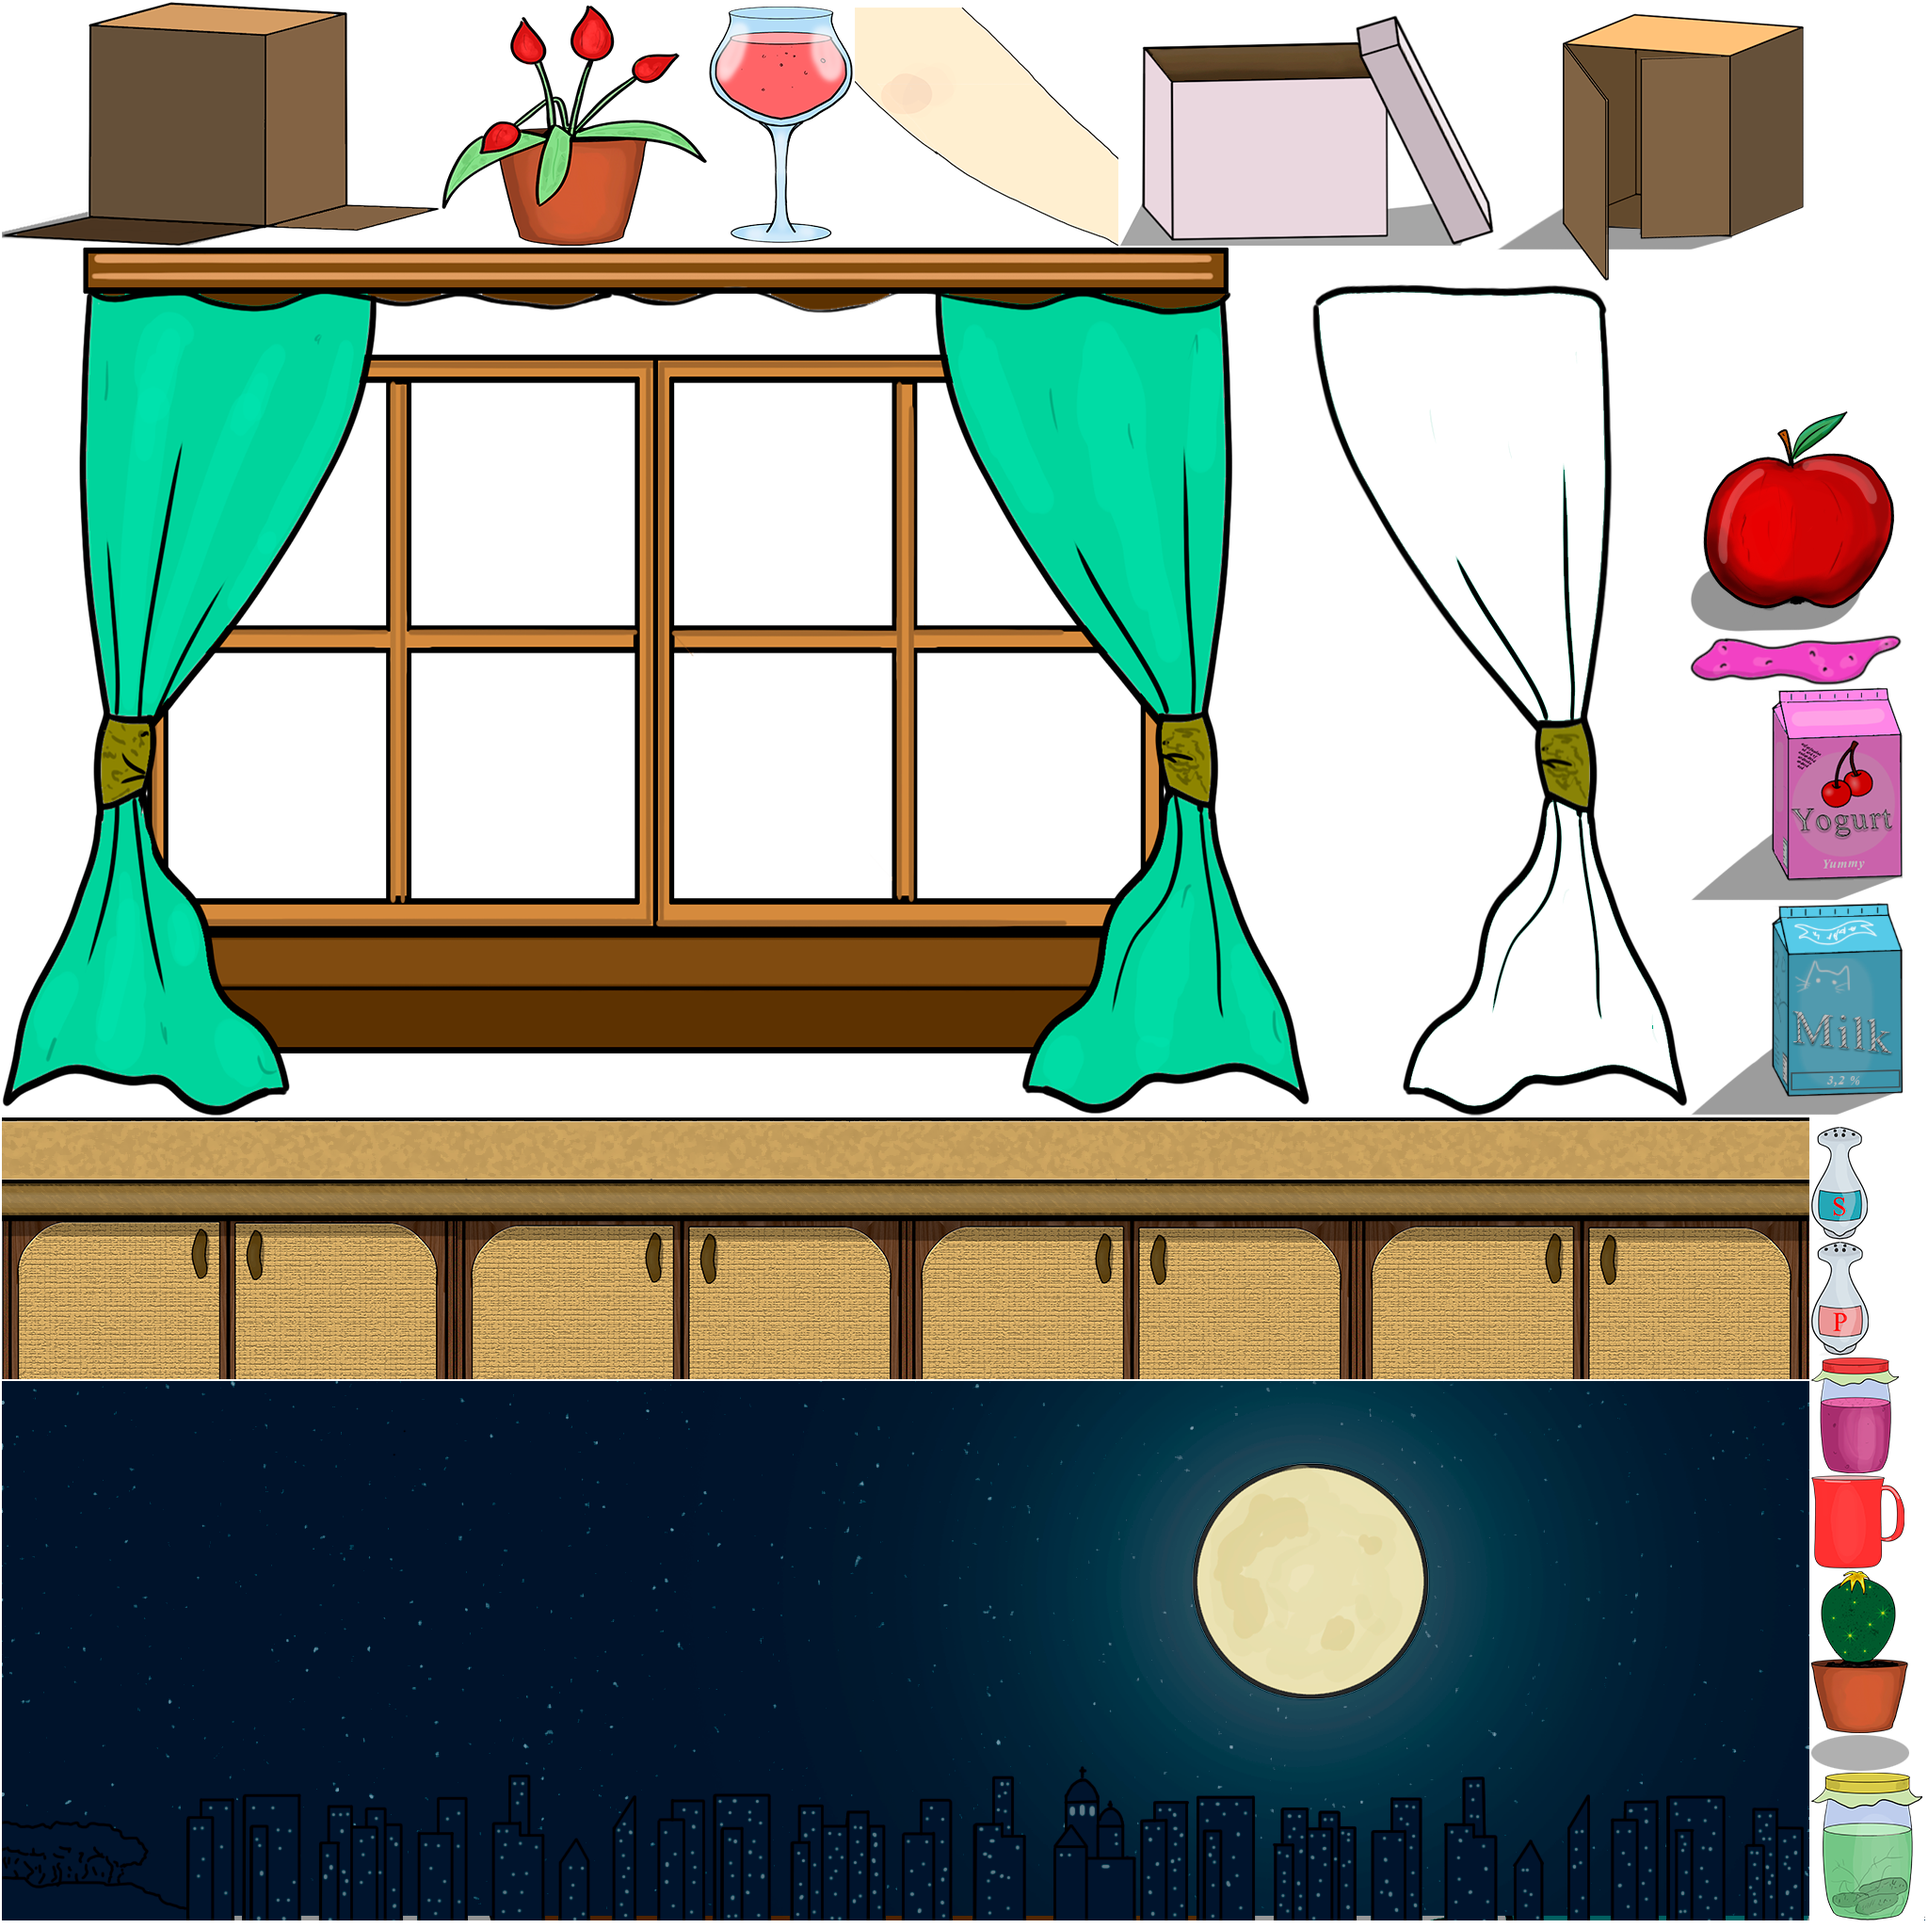
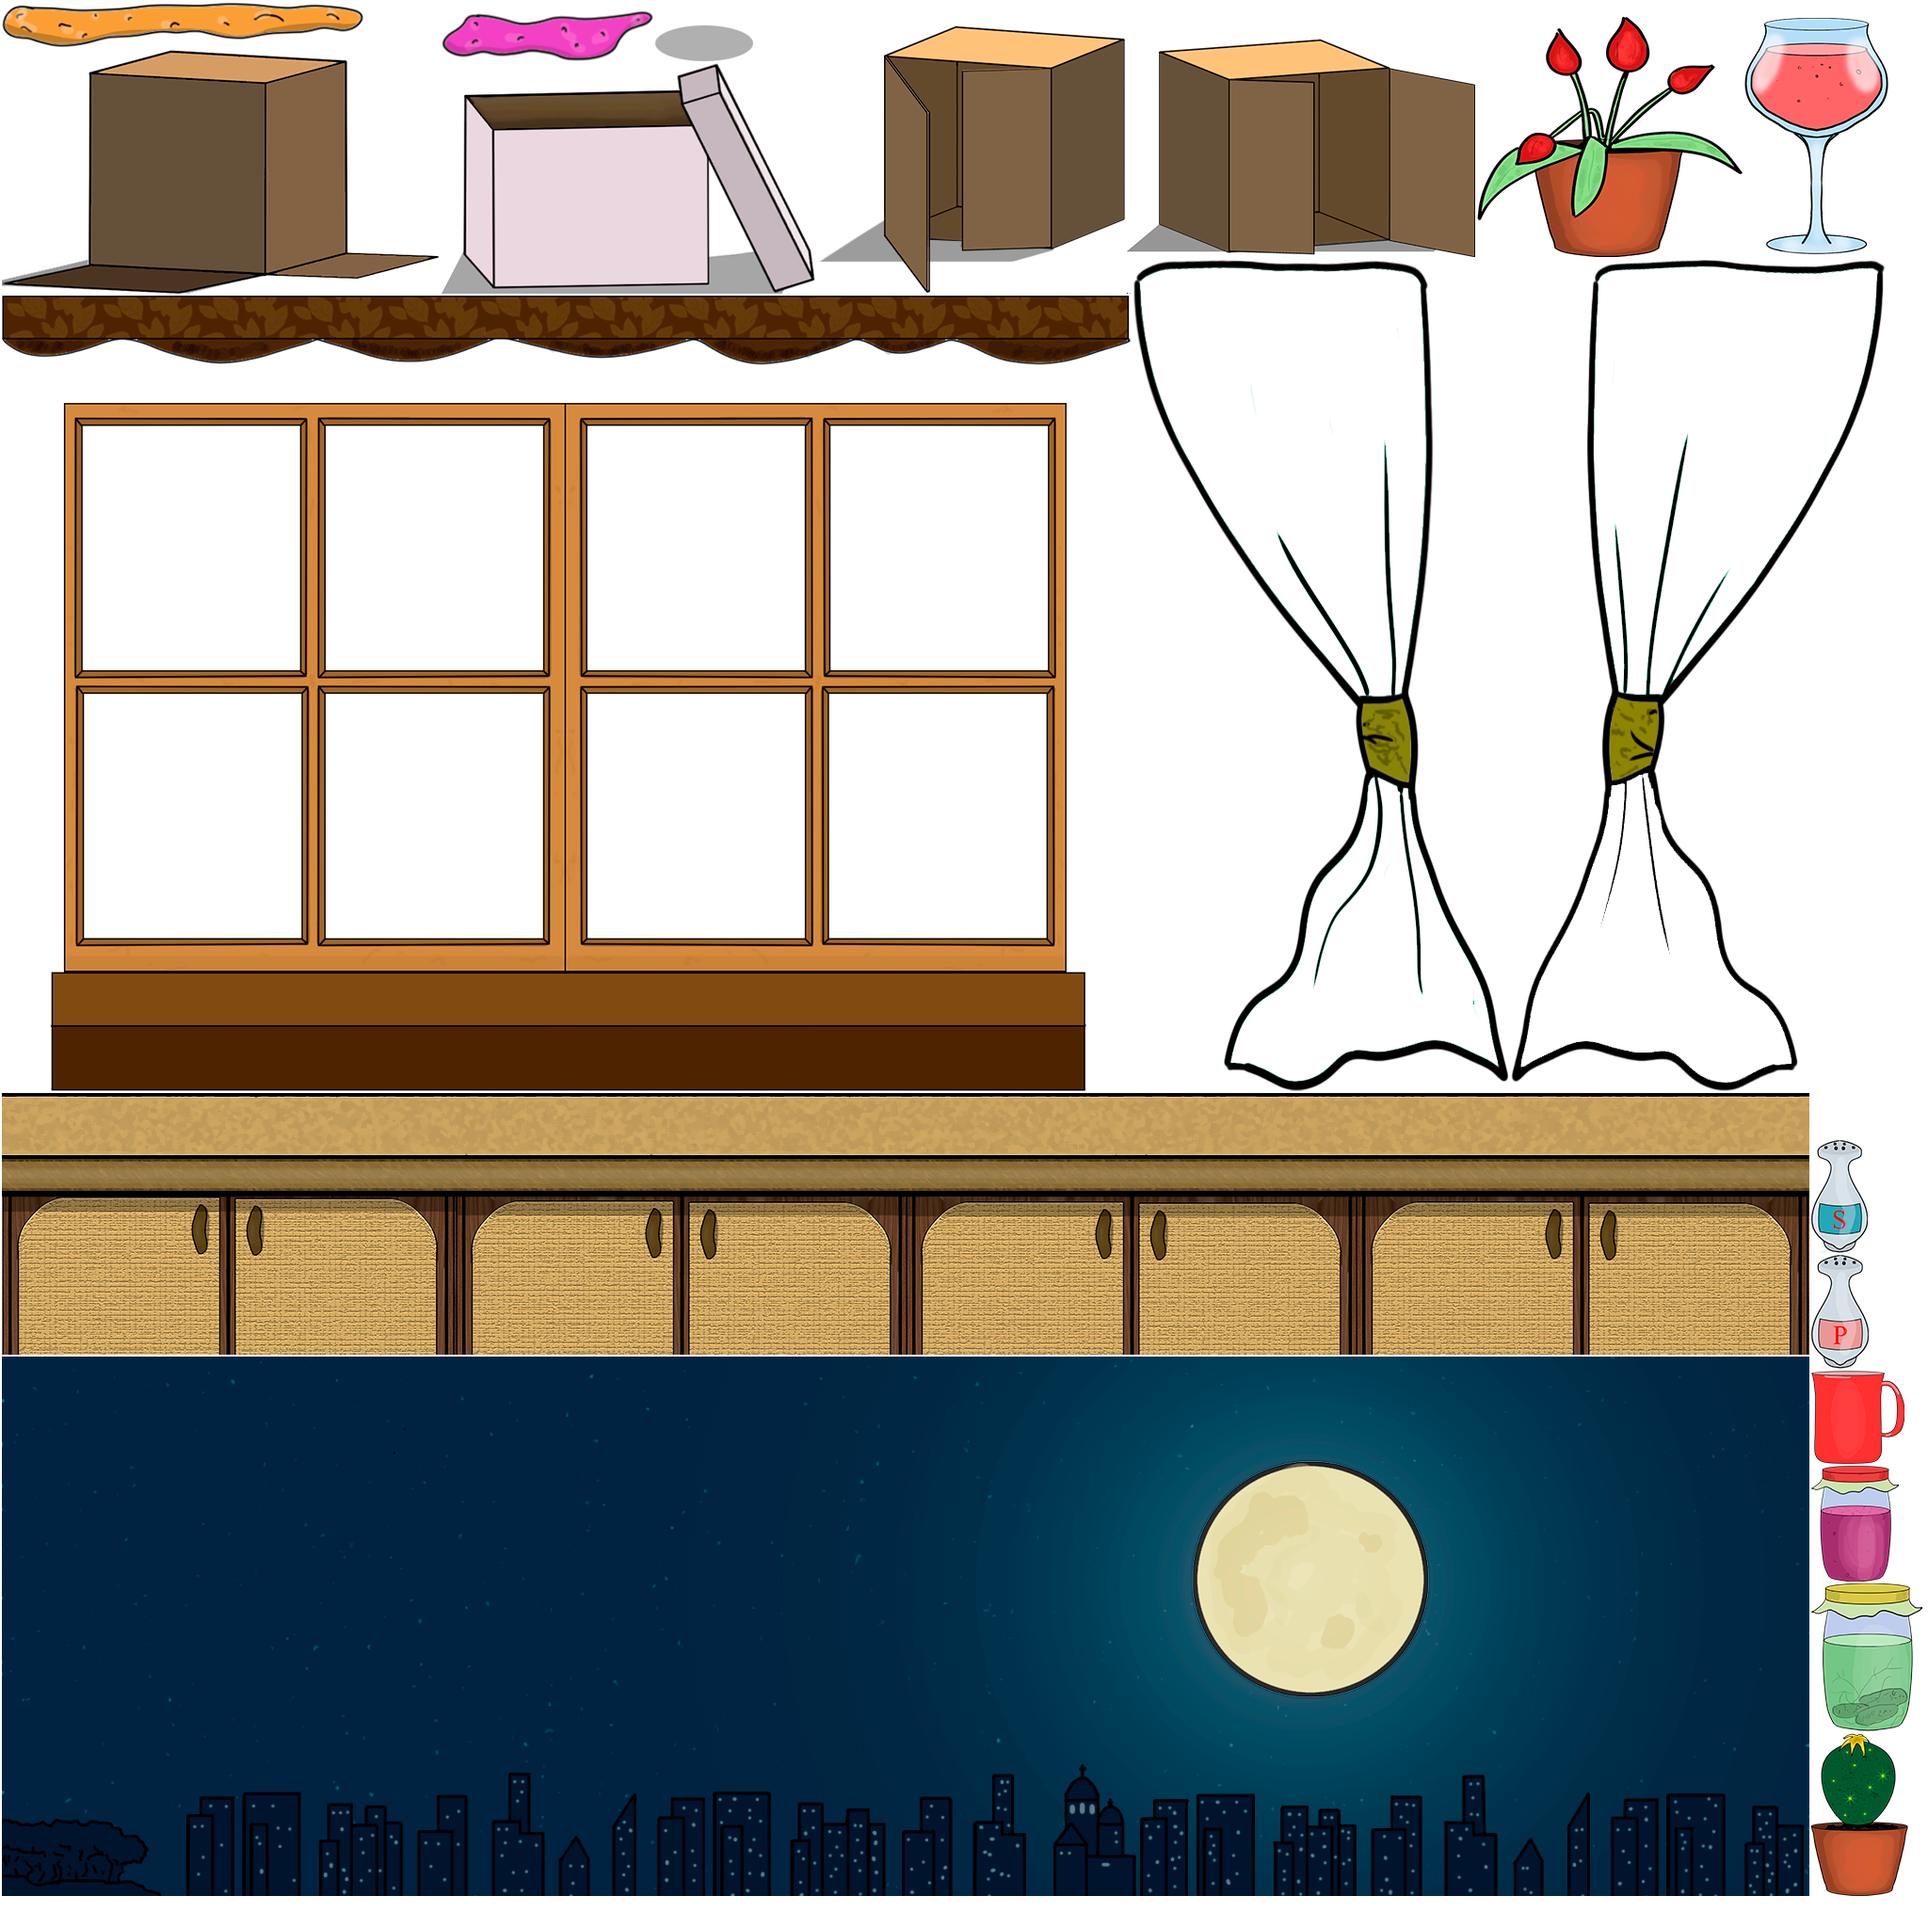
(fix) redraw sky and window

diff --git a/core/src/com/mygdx/game/world/GameWorld.kt b/core/src/com/mygdx/game/world/GameWorld.kt
@@ -29,9 +29,7 @@ class GameWorld(private val manager : AssetManager) {
     private val background = Background(manager)
     private val table = Table(manager, 240f)
     private val window = Window(manager, 270f)
-    private val moon = Moon(manager, window)
     private val city = City(manager, window)
-    private val sky = Sky(manager, window)
     private val flower = FlowerInPot(manager, window)
     private val cookie = Cookie(manager, table.worktopY, Config.WIDTH_GAME/2)
     private val cookieShadow = CookieShadow(manager, cookie)
@@ -46,7 +44,7 @@ class GameWorld(private val manager : AssetManager) {
     private var isGameOver = false
 
     init {
-        actors.addAll(background, cupboard, shadow, sky, moon, city, window, flower, table)
+        actors.addAll(background, cupboard, shadow, city, window, flower, table)
         actors.addAll(items.getActors())
         actors.addAll(cookieShadow, cookie, arm, score)
 

diff --git a/core/src/com/mygdx/game/actors/game/Window.kt b/core/src/com/mygdx/game/actors/game/Window.kt
@@ -47,10 +47,10 @@ class Window(manager : AssetManager, startY : Float) : GameActor(), Scrollable {
                 scroll.width.toFloat(), scroll.height.toFloat())
 
         //batch.color = curtainColor
-        batch.draw(curtainLeft, scroll.getX(), scroll.getY(),
+        batch.draw(curtainLeft, scroll.getX() - 40, scroll.getY(),
                 curtainLeft.originalWidth.toFloat(), curtainLeft.originalHeight.toFloat())
 
-        batch.draw(curtainRight, scroll.getX() + scroll.width - curtainRight.originalWidth, scroll.getY(),
+        batch.draw(curtainRight, scroll.getX() + 850, scroll.getY(),
                 curtainLeft.originalWidth.toFloat(), curtainLeft.originalHeight.toFloat())
         batch.color = Color.GRAY
     }

diff --git a/core/src/com/mygdx/game/actors/game/City.kt b/core/src/com/mygdx/game/actors/game/City.kt
@@ -23,9 +23,9 @@ class City(manager : AssetManager, private val window : Window) : GameActor(), S
 
         val windowPos = Position(
                 window.scroll.getX() + 110,
-                window.scroll.getY(),
-                window.scroll.width -280f,
-                window.scroll.height -560f)
+                window.scroll.getY() - 40,
+                window.scroll.width -200f,
+                window.scroll.height -100f)
 
         val cityHidePos = Hideable(posCity, windowPos)
 

diff --git a/core/src/com/mygdx/game/actors/game/Moon.kt b/core/src/com/mygdx/game/actors/game/Moon.kt
@@ -11,7 +11,7 @@ import com.mygdx.game.data.Descriptors
 
 class Moon(manager : AssetManager, private val window : Window) : GameActor() {
     private val texture = manager.get(Descriptors.environment)
-    private val moonRegion = texture.findRegion(Assets.EnvironmentAtlas.MOON)
+    private val moonRegion = texture.findRegion(Assets.EnvironmentAtlas.SHADOW)
 
     private val posMoon = Position(
             (Gdx.graphics.width/2).toFloat(),

diff --git a/core/src/com/mygdx/game/data/Assets.kt b/core/src/com/mygdx/game/data/Assets.kt
@@ -23,7 +23,6 @@ class Assets {
             const val CURTAIN_RIGHT = "curtainRight"
             const val CURTAIN_LEFT = "curtainLeft"
             const val BLUE_SKY = "blueSky"
-            const val MOON = "moon"
             const val FLOWER_IN_POT = "flowerInPot"
             const val FLOWER_IN_POT_2 = "flowerInPot2"
             const val CACTUS = "cactus"
